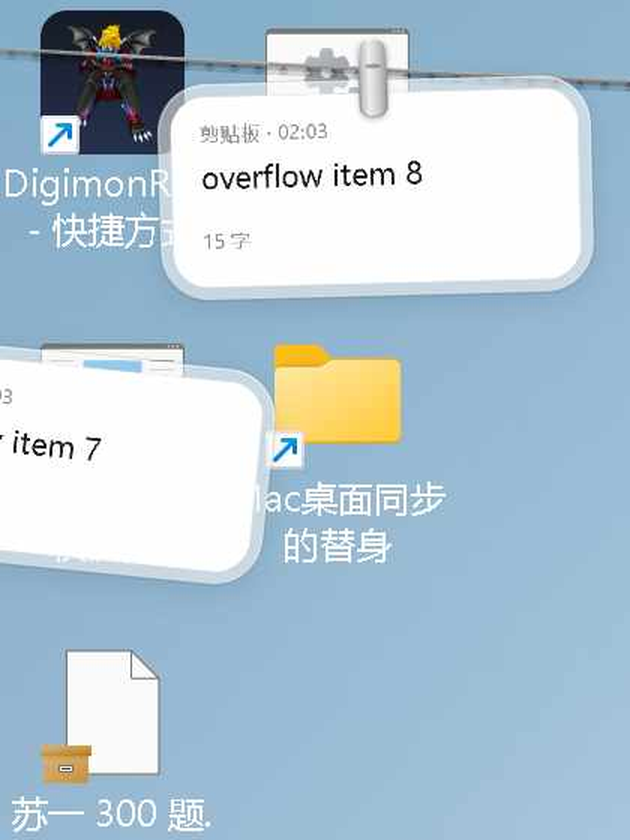
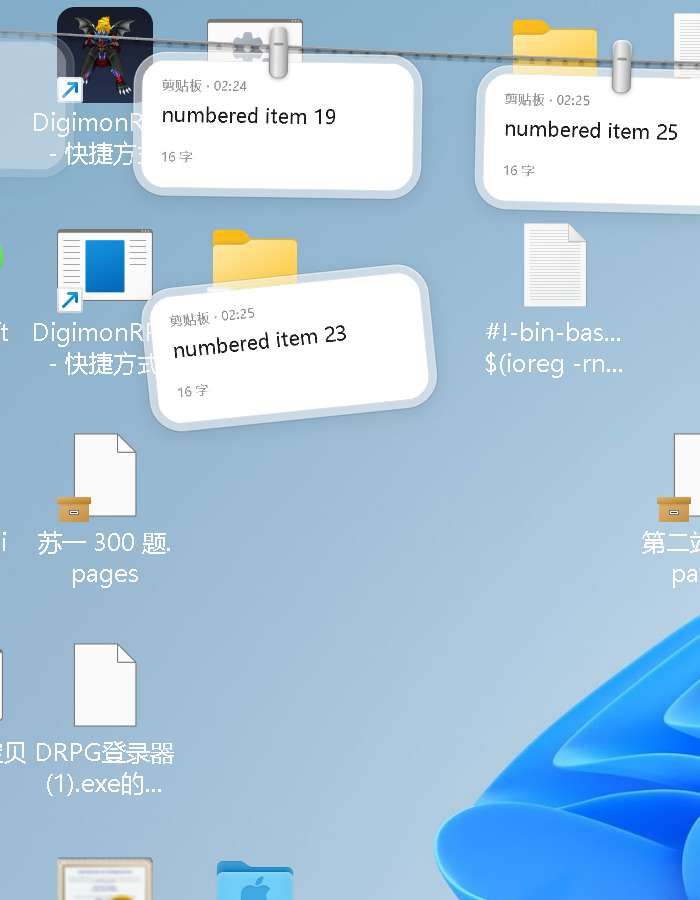
Windows 版满线清理改法：把最老那张换到屏幕最前面那一格再掉落（线不滑），不再滑过去再滑回

diff --git a/win/ui/src/line.js b/win/ui/src/line.js
@@ -79,7 +79,6 @@ export class Line {
 
     // 定时任务队列：不用 setTimeout，便于整条线暂停/继续
     this.timers = [];
-    this.lettingGo = null;   // 正在清理的那张，避免同时清两张
     this.lastFall = 0;
     this.time = 0;
   }
@@ -116,82 +115,86 @@ export class Line {
     this.maxItems = Math.max(fits, this.keepOnLine ?? fits);
   }
 
-  /** 挂上一个新东西。满了就让最老的那张下线。 */
+  /** 挂上一个新东西。满了就让最老那张「站到最前面」再掉下去。 */
   hang(item) {
     // 先去重：同样内容不重复挂（真机上用文件路径或文本哈希，这里用 id 由调用方保证）
     this.items.push(item);
     this.scrollTo(0);
     arrive(item);
 
-    // 满线只清一张：一次进来一条内容，也只该掉一张（一次掉好几张会糊成一团）。
-    // 正在清（已经滚到最老那头、等它掉）时不另开一条，免得两张同时被点名；
-    // 那一轮掉完会自己把还超出的补上。
-    if (this.liveCount > this.maxItems && this.lettingGo == null) {
-      const oldest = this.oldestLoose();
-      if (oldest) this.letGo(oldest.id);
-    }
+    this.enforceCapacity();
     return item;
   }
 
   /**
-   * 让某一张下线。
-   *
-   * 线能滚动（设了保留 25/50/100 且一屏放不下）时走一遍「看得见的过场」：
-   * ① 先滑到最老那一头（否则最老那张在屏幕左边外面，掉了也没人看见）；
-   * ② 等滑动停下再让它照原样掉下去；
-   * ③ 后面那张立刻补位；
-   * ④ 滑回最新一头，还超出的顺手补清。
-   * 这一段照抄 macOS 版 Line.swift 的 letGo(stepAside:startDelay:)。
-   *
-   * @param {boolean} stepAside 一次要清好几张时传 false：不做滑动过场，直接掉。
+   * 屏幕上最前面（最左）那张**完整看得见**、并且没被钉住的，在数组里的下标。
+   * 返回 null 表示一张都看不见（比如线收起来了）。
    */
-  letGo(id, stepAside = true) {
-    const scrolls = stepAside && this.keepOnLine != null && this.items.length > this.visibleCount;
-    if (!scrolls) {
-      // 线不滚动、或者一屏看得全：最老那张本来就在最前面，直接掉，但马上补位
-      this.drop(id);
-      if (stepAside) this.sweepFallen();
-      return;
+  frontLooseIndex() {
+    let best = null;
+    const halfW = this.layout.cardWidth / 2;
+    for (let i = 0; i < this.items.length; i++) {
+      const it = this.items[i];
+      if (it.kept || it.held) continue;
+      const x = this.layout.x(i, this.items.length, this.width, this.visibleCount,
+                             this.scroll, this.pinnedLead, this.keepOnLine);
+      // 左边沿已经出屏幕的不算「看得见」：整张都在屏幕内才行
+      if (x - halfW < 0) continue;
+      if (best == null || x < best.x) best = { i, x };
     }
+    return best ? best.i : null;
+  }
 
-    this.lettingGo = id;
-
-    // ① 滑到最老一头（snap：让卡片真的跟着滑动走到最前面，而不是被弹簧拖在后面）
-    this.scrollTo(this.layout.frontScroll(this.items.length, this.visibleCount), 0.35, easeInOut, true);
-
-    dbg(`letGo ${id} scroll→${Math.round(this.layout.frontScroll(this.items.length, this.visibleCount))} count=${this.items.length} vis=${this.visibleCount} max=${this.maxItems}`);
-
-    // ② 滑动走完再掉，掉落起点才对得上卡片当时的位置
-    this.after(0.42, () => {
-      if (!this.items.some((i) => i.id === id)) { this.lettingGo = null; return; }
-      this.drop(id);
-      // ③ 后面那张立刻补到最前面：数量少了一张，可滚动的余量也跟着少一格，
-      //    不夹一下的话线会停在滚过头的空处。
-      this.scroll = Math.min(this.scroll, this.layout.frontScroll(this.items.length, this.visibleCount));
-      this.lettingGo = null;
-
-      // ④ 掉完滑回最新一头，剩下还超出的按「不做过场」清掉
-      this.after(0.9, () => {
-        this.scrollTo(0, 0.35, easeInOut, true);
-        if (this.liveCount > this.maxItems) {
-          const next = this.oldestLoose();
-          if (next) this.after(0.45, () => this.letGo(next.id, false));
-        }
-      });
-    });
+  /** 让第 index 张立刻站到它该在的位置上（不滑、不从屏幕外飞进来）。 */
+  snapToSlot(index) {
+    const it = this.items[index];
+    const x = this.layout.x(index, this.items.length, this.width, this.visibleCount,
+                            this.scroll, this.pinnedLead, this.keepOnLine);
+    it.px.jump(x);
+    it.xInit = true;
+    // 旧矩形作废：掉落起点会按新位置重算（drop 里没有矩形时会自己算）
+    this.rects.delete(it.id);
   }
 
   /**
-   * 把「保留张数」调小之后，超出的老照片按满线的规矩下线。
-   * 调用时机：托盘里改了保留数，或者窗口变大导致一屏放得下更多。
+   * 超出保留张数就清理。做法不是「滑到最老那头」，而是：
+   * **把最老那张换到最前面看得见的位置，然后在那儿掉下去。**
+   *
+   * 这样两件事同时成立：掉下去的确实是最老的内容（语义对），
+   * 动画又演在眼前（不用为了看它掉把整条线滑几千像素再滑回来）。
+   * 换位是同一帧内完成的，画面上看到的就是「最前面那张掉下去、后面补位」。
+   * 钉住的永远不参与（宁可超一点，也不动钉住的）。
+   */
+  enforceCapacity() {
+    let guard = 0;
+    while (this.liveCount > this.maxItems && guard++ < 50) {
+      const visIdx = this.frontLooseIndex();
+      const oldIdx = this.items.findIndex((i) => !i.kept && !i.held);
+      if (visIdx == null || oldIdx < 0) break;
+
+      if (oldIdx !== visIdx) {
+        // 两张互换：最老的内容挪到最前面，原来那张退到最老的位置（屏幕外）
+        const tmp = this.items[oldIdx];
+        this.items[oldIdx] = this.items[visIdx];
+        this.items[visIdx] = tmp;
+        this.snapToSlot(oldIdx);
+        this.snapToSlot(visIdx);
+      }
+      this.drop(this.items[visIdx].id);
+    }
+  }
+
+  /** 让某一张下线：直接掉，后面立刻补位（掉落动画由渲染层播）。 */
+  letGo(id) {
+    this.drop(id);
+  }
+
+  /**
+   * 把「保留张数」调小之后，超出的按满线的规矩下线。
+   * 调用时机：托盘里改了保留数，或者窗口尺寸变化。
    */
   trim() {
-    let guard = 0;
-    while (this.liveCount > this.maxItems && guard++ < 200) {
-      const oldest = this.oldestLoose();
-      if (!oldest) break;           // 全被钉住了就停手：宁可超一点，也不动钉住的
-      this.letGo(oldest.id, false);
-    }
+    this.enforceCapacity();
     this.scrollTo(0);
   }
 
@@ -238,7 +241,7 @@ export class Line {
       r = { x: px - cw / 2, y: top + 14, w: cw, h: ch, rot: it.tilt };
     }
 
-    dbg(`drop ${id} rect=${Math.round(r.x)},${Math.round(r.y)} ${Math.round(r.w)}x${Math.round(r.h)}`);
+    dbg(`drop ${id} idx=${i} count=${this.items.length} vis=${this.visibleCount} max=${this.maxItems} keep=${this.keepOnLine} scroll=${Math.round(this.scroll)} w=${Math.round(this.width)} rect=${Math.round(r.x)},${Math.round(r.y)}`);
     this.items.splice(i, 1);
     this.lastFall = this.time;
     this.flights.push({

diff --git a/win/README.md b/win/README.md
@@ -25,7 +25,7 @@ macOS 版的 Windows 重写。**已经是可以跑起来、能挂东西的版本
 | 点卡片把原文复制回剪贴板 | ✅ | 两张卡时点左边那张，剪贴板由 `BBB…` 变成 `AAA…` |
 | **钉住**（点夹子）= 固定在最前面、永不自动删 | ✅ | 钉住后灌 20 条把容量撑爆：最左边那张 `item 6` 仍在原位，其余已刷到 26~32 |
 | 钉住的卡片照样能悬停 / 放大 / 点叉号 | ✅ | 日志 `js: pin p13 -> kept=true` 后悬停卡身 `js: hover id=p13 hit=true`（修掉了「点不到、像死了一样」） |
-| **满线自动清理（看得见）**：滑到最老一头 → 最老那张照原样掉 → 立刻补位 → 滑回最新 | ✅ | 逐帧抓到：`item 8` 还挂在绳上，`item 7` 已脱钩斜着往下掉；日志 `letGo p13 ... drop p13 rect=89,25`（起点在屏幕内） |
+| **满线自动清理（看得见）**：最老那张换到最前面那一格，然后掉下去 | ✅ | 日志 `drop p1 idx=19 rect=125,27`（p1 是第一条内容，被换到可见的第 19 位再掉）；逐帧拍到 `numbered item 23` 脱钩斜着下落 |
 | 保留张数 25/50/100、一直显示 会存盘 | ✅ | 写在 `%APPDATA%\liangyijia\settings.txt`，重启保留 |
 | 深浅主题跟随系统 | ✅ | 之前写死深色，现在读 `prefers-color-scheme`，系统是浅色卡片就是白的 |
 | 只有复制时显示（默认） | ✅ | 启动时线收起；复制内容后滑下来；3.2 秒无交互自动收回（日志 `hide: idle=3202ms`） |
@@ -48,16 +48,22 @@ macOS 版的 Windows 重写。**已经是可以跑起来、能挂东西的版本
 - **钉住状态不持久化**：钉住只在本次运行有效（macOS 版会存）
 - **滚轮回看**：窗口不激活收不到 wheel，25/50/100 张里靠左的部分看不到，只能等它被删
 
-## 满线清理的规矩（和 macOS 版一致）
+## 满线清理的规矩（Windows 和 macOS 不一样）
 
-线设了「保留 25/50/100」并且一屏放不下时，每进来一条新内容只清一张，走一遍过场：
+**Windows：换位掉落，线不动。**
 
-1. 先滑到最老那一头（否则最老那张在屏幕左边外面，掉了也没人看见）；
-2. 滑动停下再让它照原样掉下去（自转 + 淡出）；
-3. 后面那张立刻补位；
-4. 滑回最新一头，还超出的按「不做过场」直接清掉。
+每进来一条新内容、超出保留张数时，把**最老那张换到「屏幕最前面看得见的那一格」**，
+然后在那儿掉下去。两件事同时成立：
 
-钉住的卡片排在绳结左边、永远不参与这套清理；点夹子可以钉住/取消钉住。
+- 掉下去的确实是**最老的内容**（语义对）；
+- 动画演在**眼前**（不用为了看它掉把整条线滑几千像素再滑回来）。
+
+换位是同一帧内完成的，画面上看到的就是「最前面那张掉下去、后面补位、新内容从右边进来」。
+钉住的卡片永远不参与，点夹子可以钉住 / 取消钉住。
+
+**macOS：保留原来的「滑到最老一头再滑回」**。那边能滑动回看，把屏幕最前面那张清掉
+等于提前扔掉还能翻到的旧内容；Windows 收不到滚轮（窗口不抢焦点），屏幕外的卡片本来
+也摸不到，所以才改成换位。
 
 ## 构建
 
